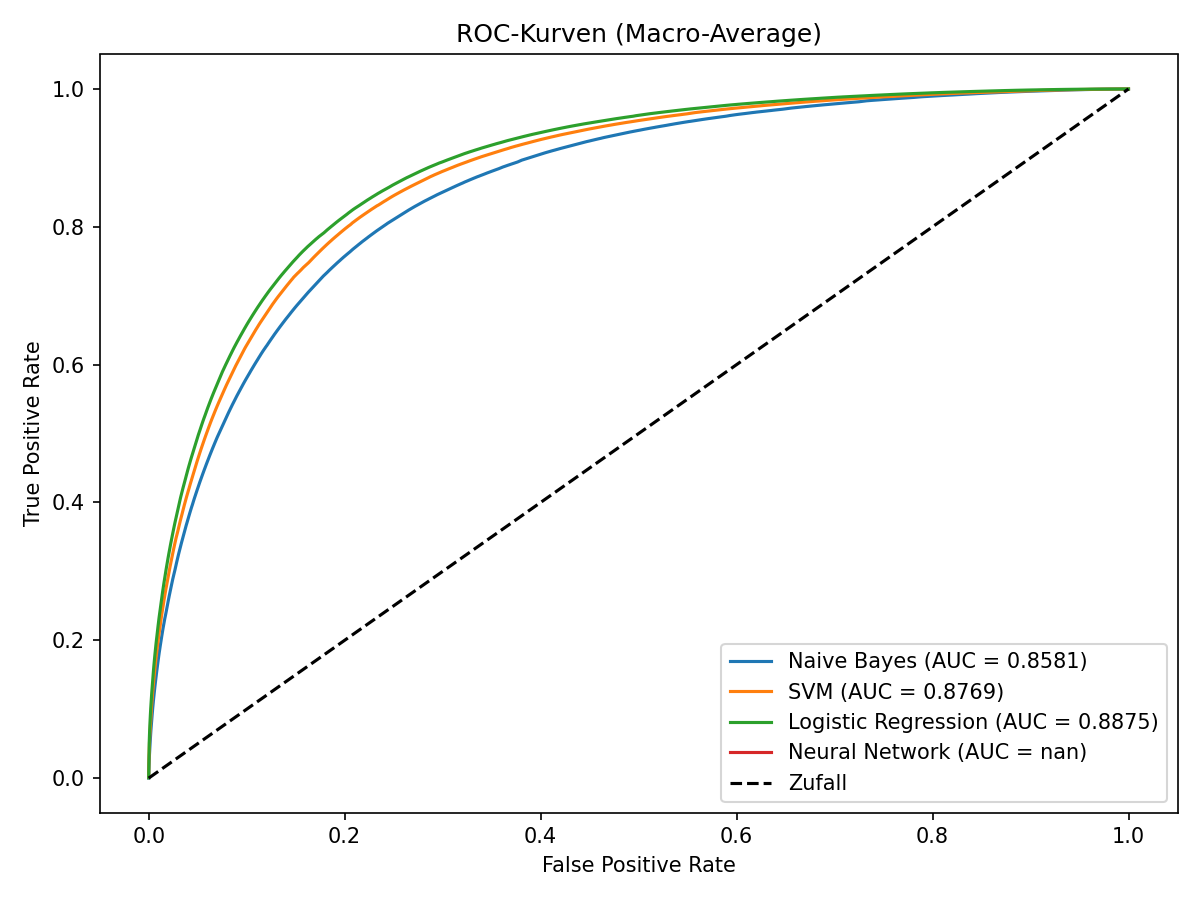
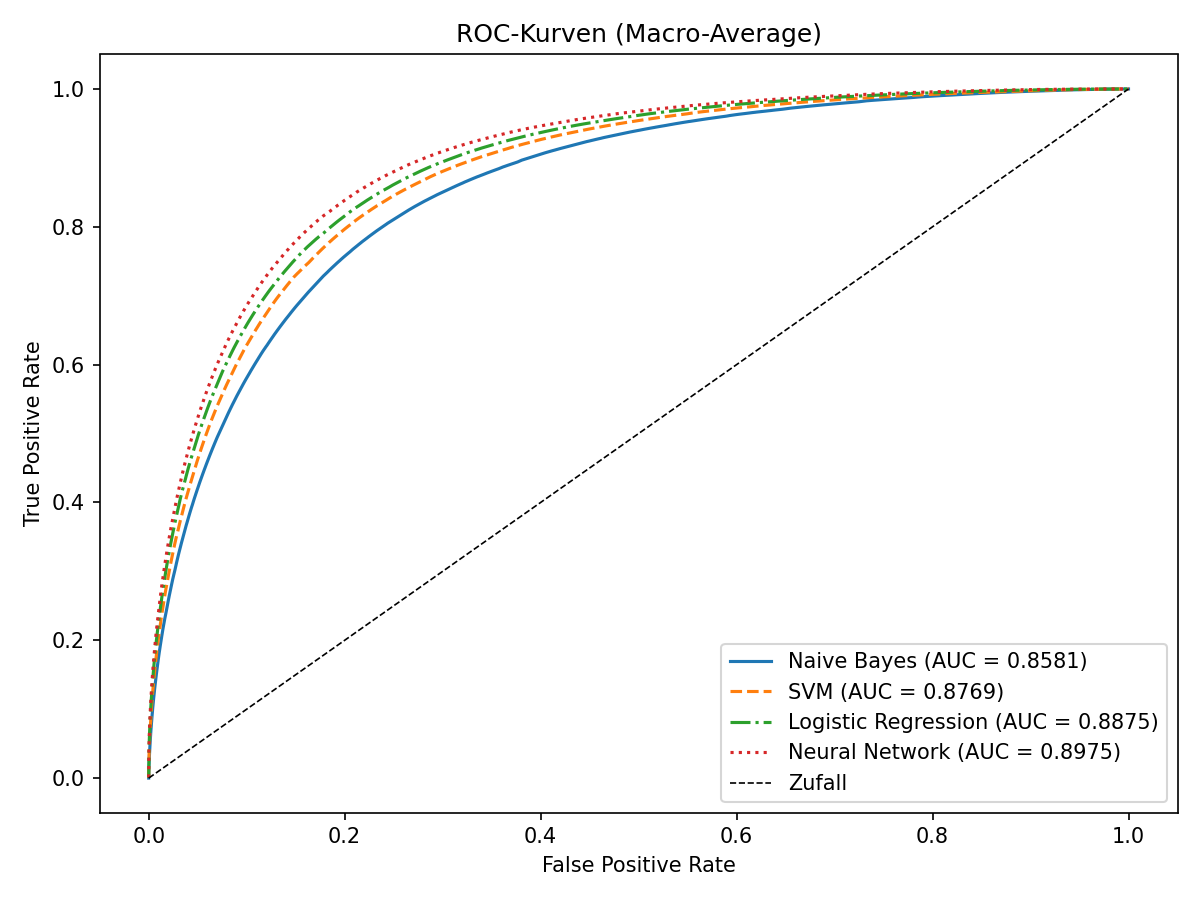
ROC-Kurve für NN korrigiert

diff --git a/src/create_roc.py b/src/create_roc.py
@@ -13,14 +13,18 @@ RUNS = {
     "Neural Network": PROJECT_ROOT / "results" / "neural" / "runs" / "run_08_30000k",
 }
 
+STYLES = ["-", "--", "-.", ":"]
 CLASSES = [1, 2, 3, 4, 5]
 OUTPUT_PATH = PROJECT_ROOT / "documentation" / "roc_comparison.png"
 
 plt.figure(figsize=(8, 6))
 
-for name, run_dir in RUNS.items():
+for (name, run_dir), style in zip(RUNS.items(), STYLES):
     y_test = np.load(run_dir / "y_test.npy")
     y_proba = np.load(run_dir / "y_proba.npy")
+
+    if y_test.min() == 0:
+        y_test = y_test + 1
 
     y_bin = label_binarize(y_test, classes=CLASSES)
 
@@ -38,9 +42,9 @@ for name, run_dir in RUNS.items():
     mean_tpr /= len(CLASSES)
     macro_auc = auc(all_fpr, mean_tpr)
 
-    plt.plot(all_fpr, mean_tpr, label=f"{name} (AUC = {macro_auc:.4f})")
+    plt.plot(all_fpr, mean_tpr, style, linewidth=1.5, label=f"{name} (AUC = {macro_auc:.4f})")
 
-plt.plot([0, 1], [0, 1], "k--", label="Zufall")
+plt.plot([0, 1], [0, 1], "k--", linewidth=0.8, label="Zufall")
 plt.xlabel("False Positive Rate")
 plt.ylabel("True Positive Rate")
 plt.title("ROC-Kurven (Macro-Average)")
